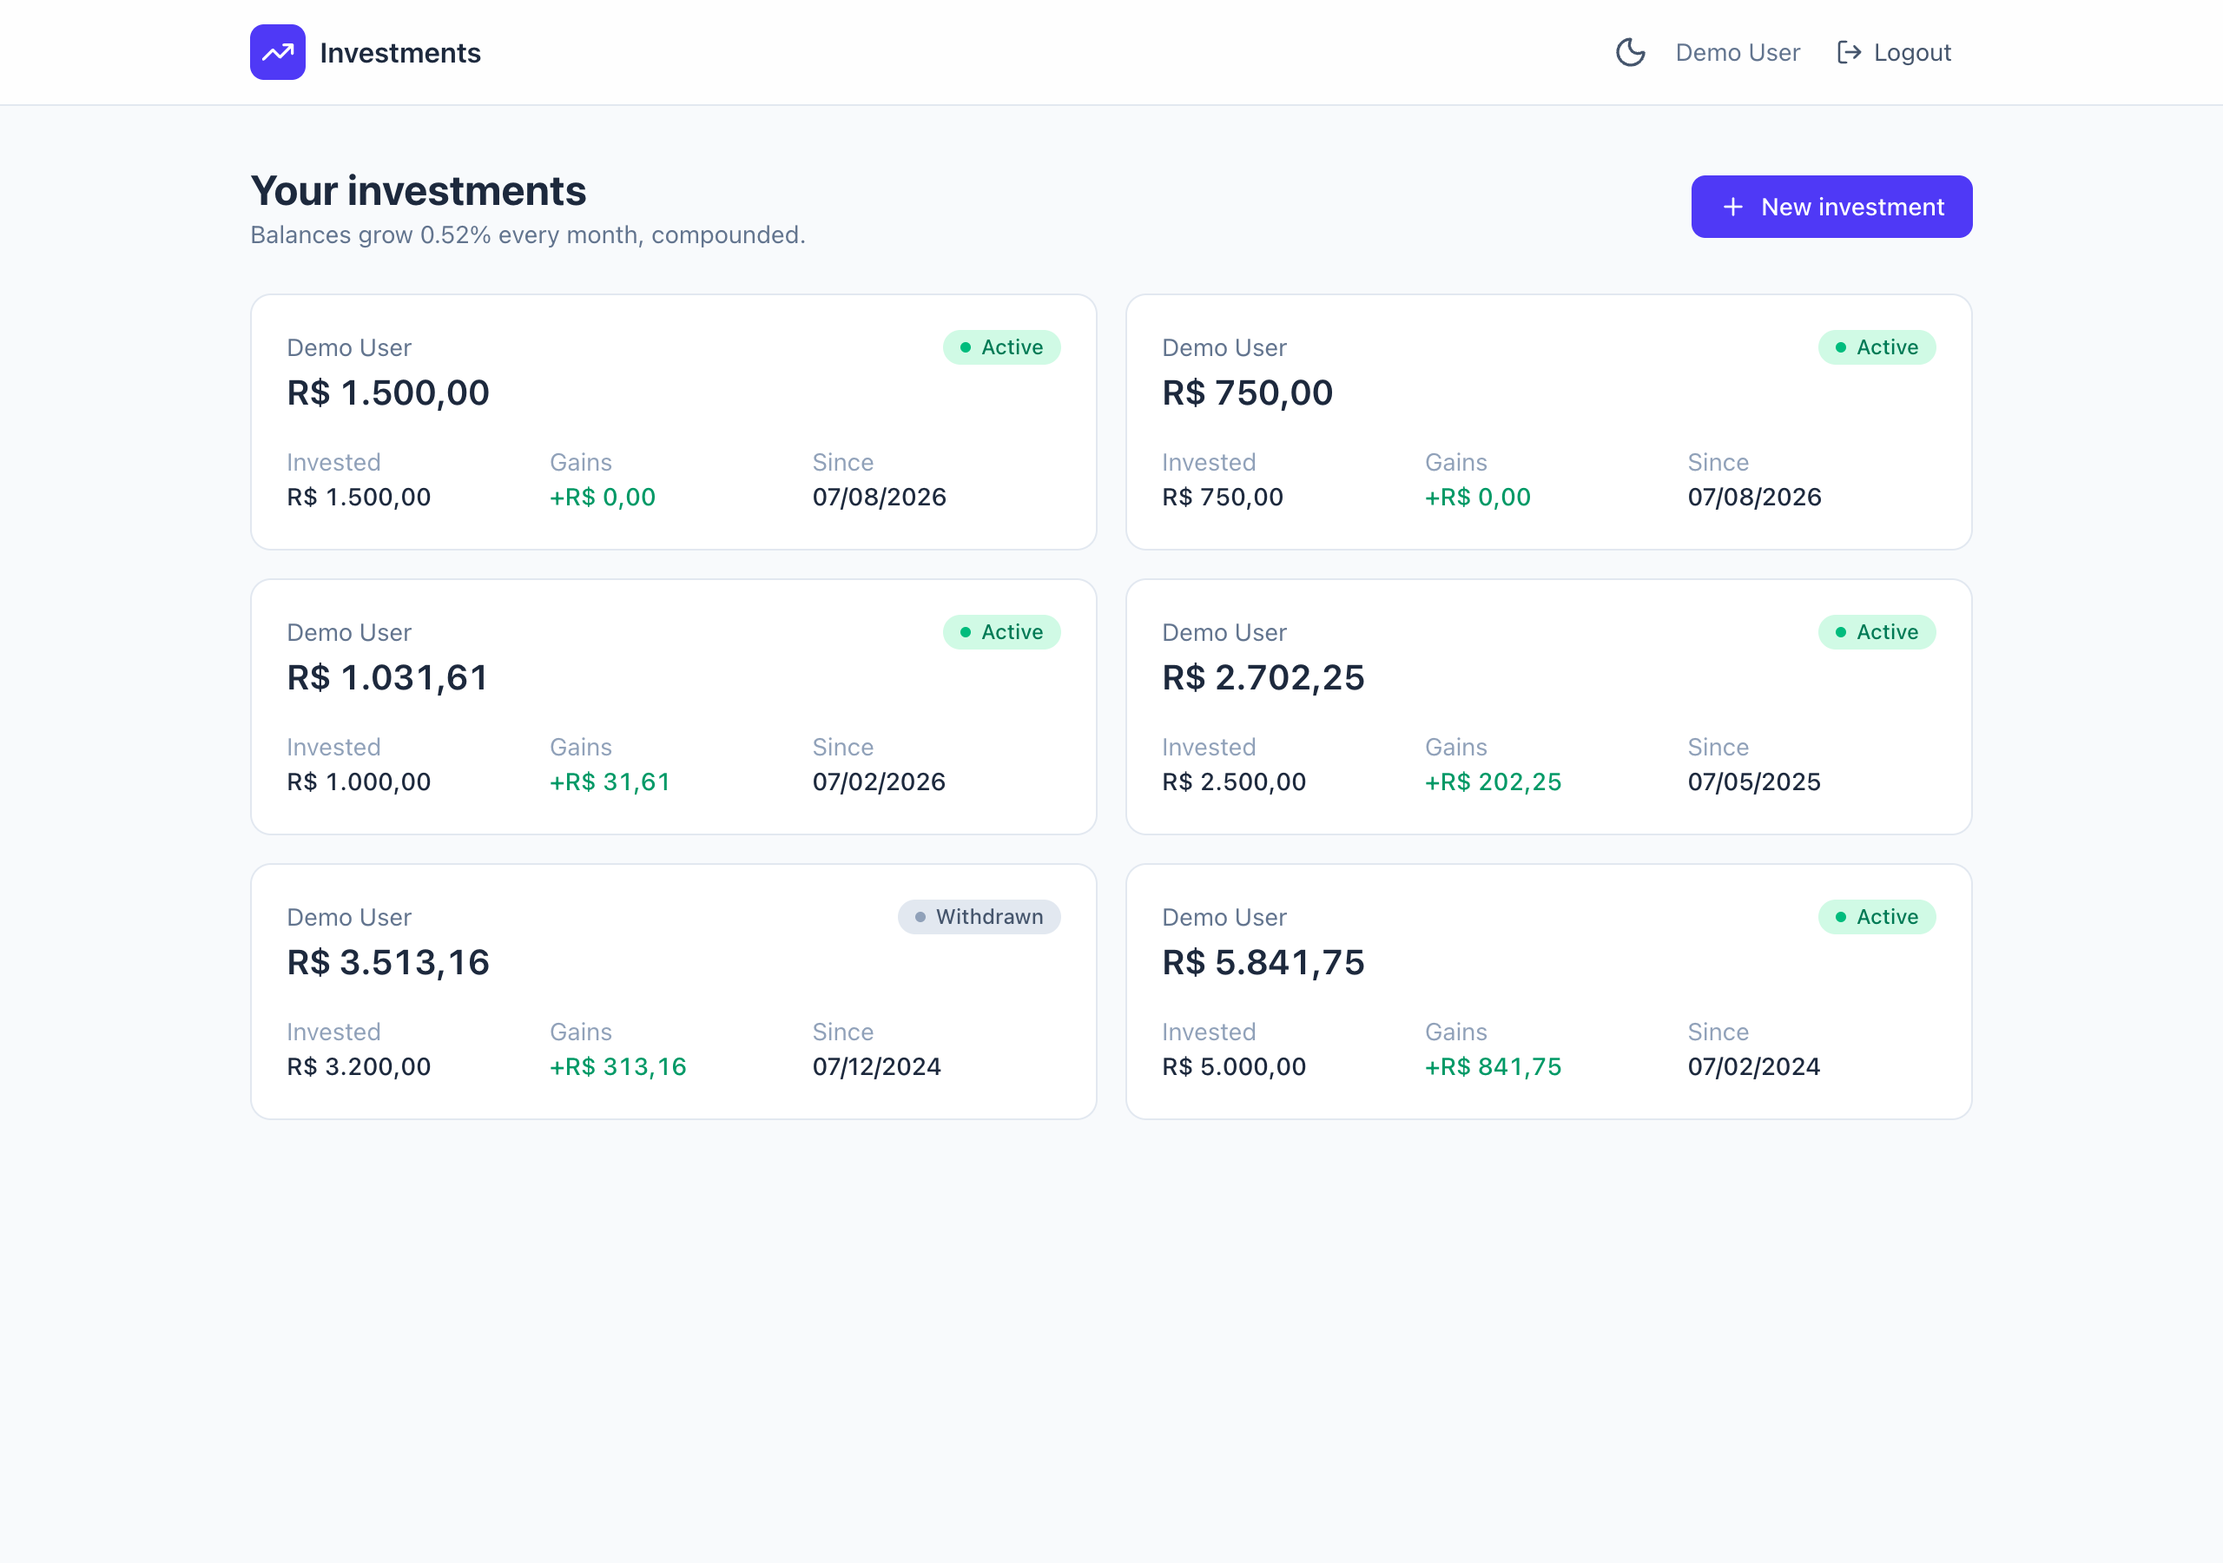
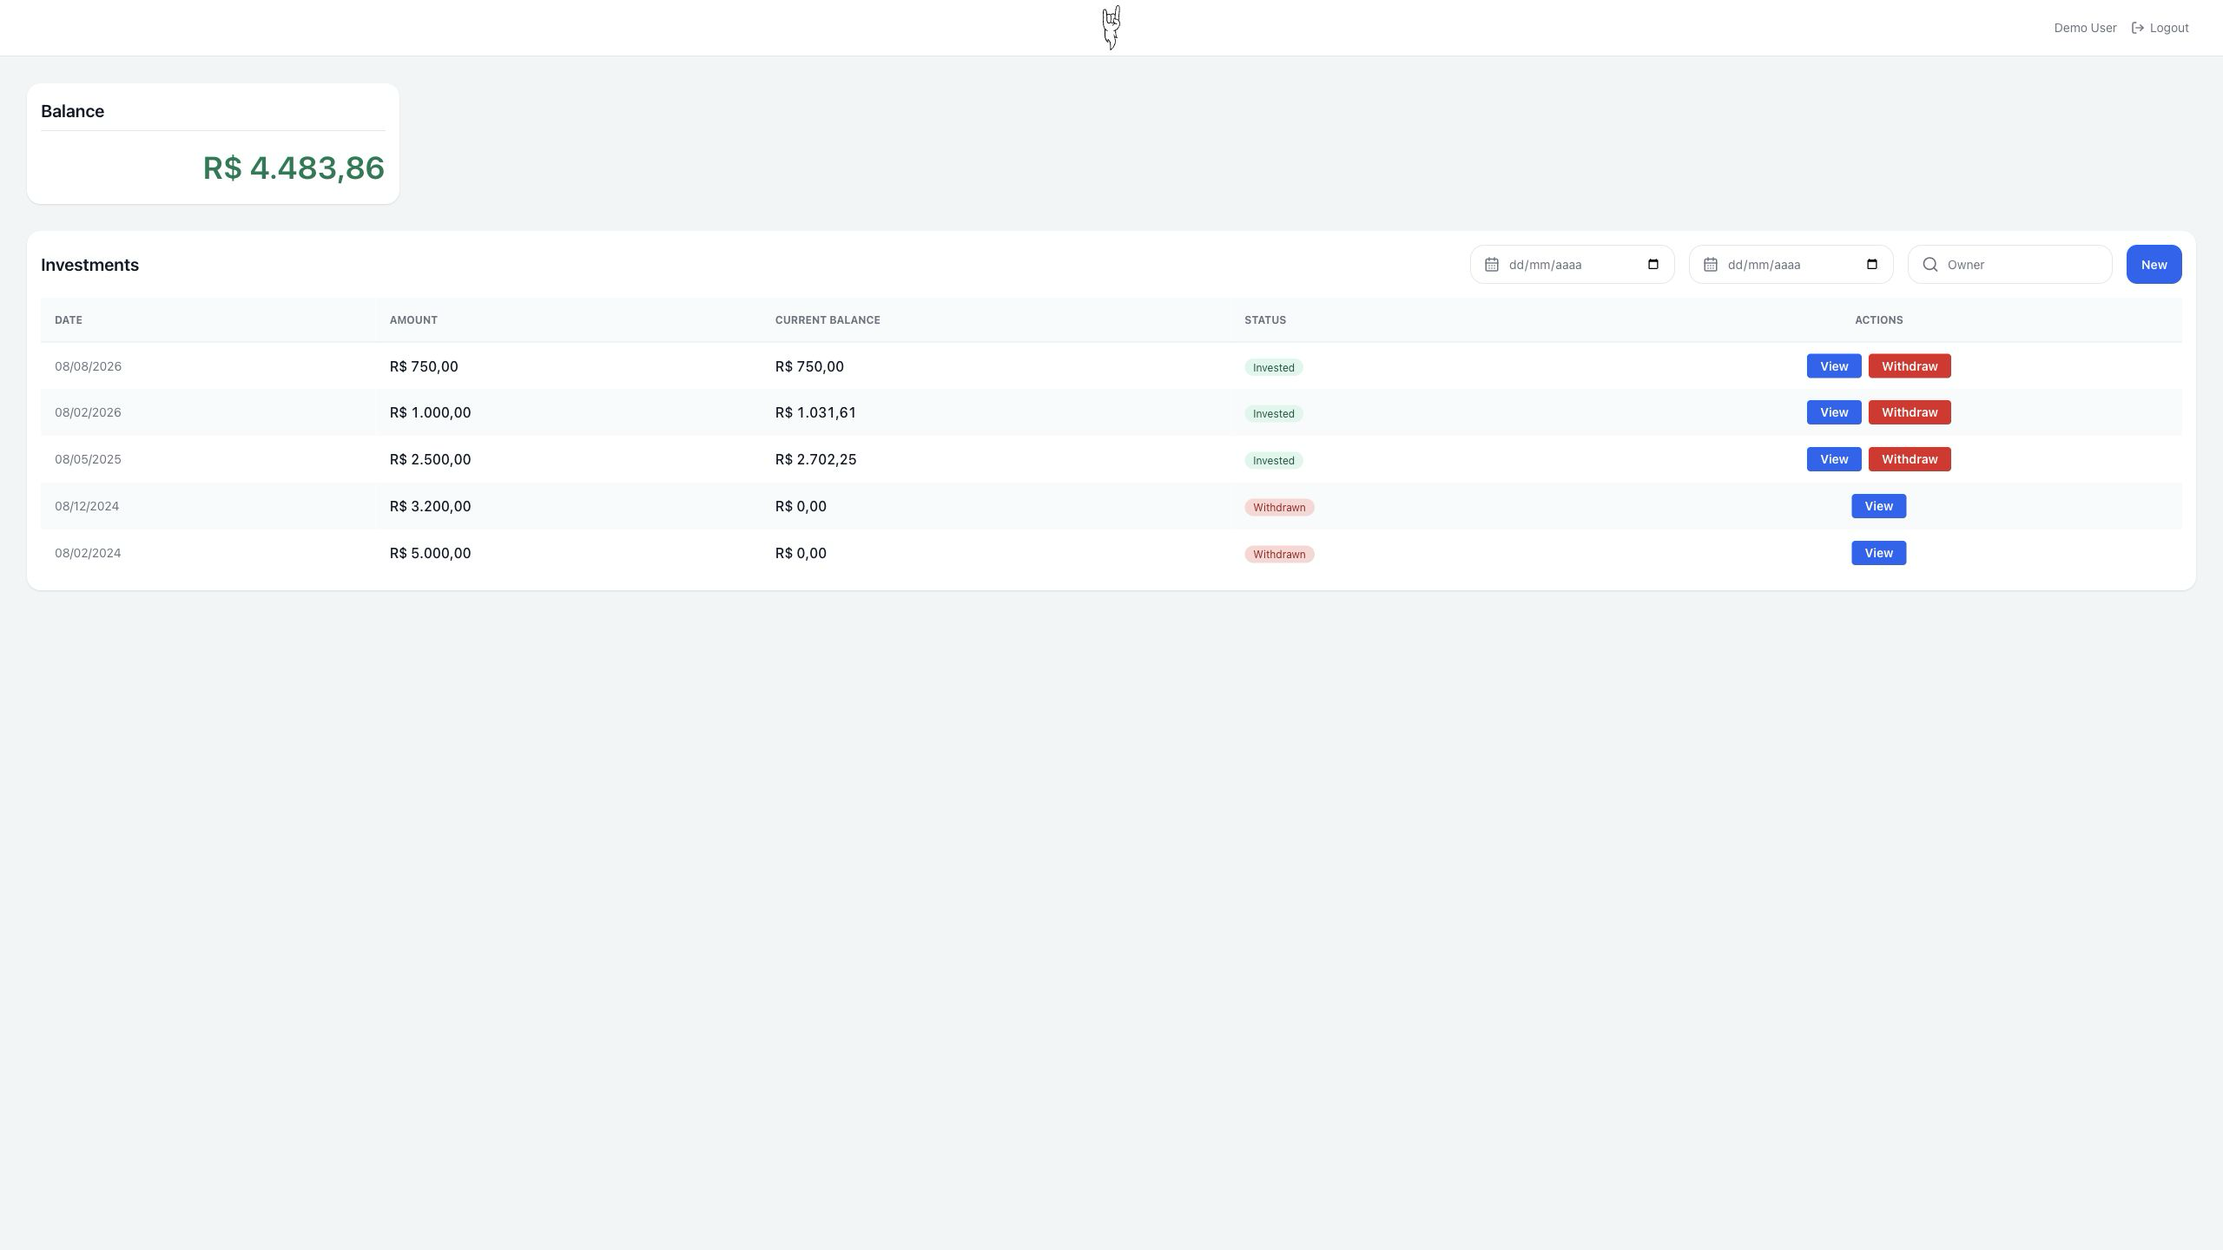
docs: refresh delivery documentation and screenshots

diff --git a/README.md b/README.md
@@ -15,19 +15,18 @@ only for the notification e-mail templates.
 
 ## Screenshots
 
-| Dashboard (light) | Withdrawal preview |
-|---|---|
+| Dashboard                                  | Withdrawal preview                              |
+| ------------------------------------------ | ----------------------------------------------- |
 | ![Dashboard](screenshots/01-dashboard.png) | ![Withdraw](screenshots/03-withdraw-dialog.png) |
 
-| Investment detail | Dashboard (dark) |
-|---|---|
-| ![Detail](screenshots/02-investment-detail.png) | ![Dark](screenshots/04-dark-mode.png) |
-
-More in [`screenshots/`](screenshots/) — including the API docs and a caught e-mail.
+| Investment detail                               |
+| ----------------------------------------------- |
+| ![Detail](screenshots/02-investment-detail.png) |
 
 ## Features
 
 **Backend (API)**
+
 - Create an investment (owner, creation date — today or past, positive amount).
 - View an investment with its initial amount and **expected balance** (principal + gains); withdrawn investments show the balance frozen at the withdrawal date.
 - **Withdraw** an investment in full, with taxes applied to the gain portion; a `withdrawal-preview` endpoint returns the taxed net for any date without committing.
@@ -36,11 +35,13 @@ More in [`screenshots/`](screenshots/) — including the API docs and a caught e
 - Queued **notification e-mails** on creation and withdrawal (Blade templates, caught by Mailpit in dev).
 
 **Frontend (UI)**
+
 - Investment list with owner, date, amount, current balance and status, with pagination.
 - Investment detail with gains and final balance.
 - Create-investment form with client + server validation.
 - Withdrawal action with a **live taxed-net preview** as you pick the date.
-- Responsive layout, dark mode, skeletons, empty/error states, toasts and route transitions.
+- Responsive layout based on the supplied Figma design, with desktop tables,
+  mobile cards, skeletons, empty/error states, toasts and route transitions.
 
 ## Business rules
 
@@ -91,12 +92,12 @@ make up
 `make up` builds the images, starts everything, then migrates and seeds demo data —
 in a single command. Then open:
 
-| Service | URL |
-|---|---|
-| API | http://localhost:8080 |
+| Service                    | URL                            |
+| -------------------------- | ------------------------------ |
+| API                        | http://localhost:8080          |
 | API docs (Swagger/OpenAPI) | http://localhost:8080/docs/api |
-| SPA | http://localhost:5173 |
-| Mailpit (caught e-mails) | http://localhost:8025 |
+| SPA                        | http://localhost:5173          |
+| Mailpit (caught e-mails)   | http://localhost:8025          |
 
 **Demo login:** `demo@coderockr.test` / `password` (pre-filled on the login screen).
 
@@ -116,11 +117,11 @@ in a single command. Then open:
 
 Three independent `.env` scopes keep the apps decoupled:
 
-| File | Purpose | Key values |
-|---|---|---|
-| `.env` (root) | Values Docker Compose interpolates | `DB_*`, `API_HTTP_PORT`, `WEB_HTTP_PORT` |
-| `api/.env` | Laravel | `DB_HOST=postgres`, `FRONTEND_URL`, `MAIL_HOST=mailpit`, `QUEUE_CONNECTION=database` |
-| `web/.env` | Vite (client) | `VITE_API_URL` |
+| File          | Purpose                            | Key values                                                                           |
+| ------------- | ---------------------------------- | ------------------------------------------------------------------------------------ |
+| `.env` (root) | Values Docker Compose interpolates | `DB_*`, `API_HTTP_PORT`, `WEB_HTTP_PORT`                                             |
+| `api/.env`    | Laravel                            | `DB_HOST=postgres`, `FRONTEND_URL`, `MAIL_HOST=mailpit`, `QUEUE_CONNECTION=database` |
+| `web/.env`    | Vite (client)                      | `VITE_API_URL`                                                                       |
 
 **CORS** is configured in `api/config/cors.php` to allow only `FRONTEND_URL`. Auth uses Sanctum **token** mode (origin-agnostic, no shared cookie), which is why the two apps can be deployed to different hosts.
 
@@ -142,43 +143,43 @@ make lint    # Pint + PHPStan/Larastan + ESLint + vue-tsc
 
 ### Endpoints
 
-| Method | Path | Description |
-|---|---|---|
-| POST | `/api/register` · `/api/login` | Auth → returns `{ user, token }` |
-| POST | `/api/logout` · GET `/api/user` | Session (Bearer) |
-| GET | `/api/investments` | Paginated list (own investments) |
-| POST | `/api/investments` | Create |
-| GET | `/api/investments/{id}` | View with balance + gains |
-| GET | `/api/investments/{id}/withdrawal-preview?date=` | Taxed-net preview |
-| POST | `/api/investments/{id}/withdraw` | Withdraw (full) |
+| Method | Path                                             | Description                      |
+| ------ | ------------------------------------------------ | -------------------------------- |
+| POST   | `/api/register` · `/api/login`                   | Auth → returns `{ user, token }` |
+| POST   | `/api/logout` · GET `/api/user`                  | Session (Bearer)                 |
+| GET    | `/api/investments`                               | Paginated list (own investments) |
+| POST   | `/api/investments`                               | Create                           |
+| GET    | `/api/investments/{id}`                          | View with balance + gains        |
+| GET    | `/api/investments/{id}/withdrawal-preview?date=` | Taxed-net preview                |
+| POST   | `/api/investments/{id}/withdraw`                 | Withdraw (full)                  |
 
 ## Third-party libraries
 
 ### Backend (`api/`)
 
-| Library | Why / how |
-|---|---|
-| `laravel/framework` 13 | API foundation: routing, Eloquent, validation, queue, mail. |
-| `laravel/sanctum` | Bearer-token auth for the decoupled SPA. |
-| `brick/money` (+ `ext-bcmath`) | Exact money as integer cents; deterministic compound/tax math (no float drift). |
-| `dedoc/scramble` | Zero-annotation OpenAPI docs (`/docs/api`) + exported spec. |
-| `pestphp/pest` | Expressive TDD; datasets drive the financial test vectors. |
-| `larastan/larastan` + `phpstan` | Static analysis (`make lint`). |
-| `laravel/pint` | PSR-12 code style. |
+| Library                         | Why / how                                                                       |
+| ------------------------------- | ------------------------------------------------------------------------------- |
+| `laravel/framework` 13          | API foundation: routing, Eloquent, validation, queue, mail.                     |
+| `laravel/sanctum`               | Bearer-token auth for the decoupled SPA.                                        |
+| `brick/money` (+ `ext-bcmath`)  | Exact money as integer cents; deterministic compound/tax math (no float drift). |
+| `dedoc/scramble`                | Zero-annotation OpenAPI docs (`/docs/api`) + exported spec.                     |
+| `pestphp/pest`                  | Expressive TDD; datasets drive the financial test vectors.                      |
+| `larastan/larastan` + `phpstan` | Static analysis (`make lint`).                                                  |
+| `laravel/pint`                  | PSR-12 code style.                                                              |
 
 ### Frontend (`web/`)
 
-| Library | Why / how |
-|---|---|
-| `vue` 3 + `vite` + `typescript` | SPA with `<script setup>` + typed SFCs. |
-| `vue-router` | Routing with auth guards; page in the URL for shareable pagination. |
-| `pinia` | Client/session state only (token, theme). |
-| `@tanstack/vue-query` | Server state: caching, `keepPreviousData` pagination, cache invalidation on mutations. |
-| `tailwindcss` v4 | Utility-first styling + handmade components (light/dark). |
-| `dayjs` | Date validation/formatting. |
-| `@vueuse/core` | `refDebounced` (withdrawal preview), `usePreferredDark`-style theming helpers. |
-| `lucide-vue-next` · `vue-sonner` | Icons · toasts. |
-| `eslint` · `prettier` · `vitest` | Lint · format · unit tests. |
+| Library                          | Why / how                                                                              |
+| -------------------------------- | -------------------------------------------------------------------------------------- |
+| `vue` 3 + `vite` + `typescript`  | SPA with `<script setup>` + typed SFCs.                                                |
+| `vue-router`                     | Routing with auth guards; page in the URL for shareable pagination.                    |
+| `pinia`                          | Client/session state for the authenticated user and token.                             |
+| `@tanstack/vue-query`            | Server state: caching, `keepPreviousData` pagination, cache invalidation on mutations. |
+| `tailwindcss` v4                 | Utility-first styling and custom components based on the supplied Figma design.        |
+| `dayjs`                          | Date validation/formatting.                                                            |
+| `@vueuse/core`                   | Debounced withdrawal preview and keyboard interaction helpers.                         |
+| `lucide-vue-next` · `vue-sonner` | Icons · toasts.                                                                        |
+| `eslint` · `prettier` · `vitest` | Lint · format · unit tests.                                                            |
 
 A native `fetch` wrapper is used instead of axios to keep the dependency list lean.
 

diff --git a/api/README.md b/api/README.md
@@ -1,58 +1,32 @@
-<p align="center"><a href="https://laravel.com" target="_blank"><img src="https://raw.githubusercontent.com/laravel/art/master/logo-lockup/5%20SVG/2%20CMYK/1%20Full%20Color/laravel-logolockup-cmyk-red.svg" width="400" alt="Laravel Logo"></a></p>
+# Investment Manager API
 
-<p align="center">
-<a href="https://github.com/laravel/framework/actions"><img src="https://github.com/laravel/framework/workflows/tests/badge.svg" alt="Build Status"></a>
-<a href="https://packagist.org/packages/laravel/framework"><img src="https://img.shields.io/packagist/dt/laravel/framework" alt="Total Downloads"></a>
-<a href="https://packagist.org/packages/laravel/framework"><img src="https://img.shields.io/packagist/v/laravel/framework" alt="Latest Stable Version"></a>
-<a href="https://packagist.org/packages/laravel/framework"><img src="https://img.shields.io/packagist/l/laravel/framework" alt="License"></a>
-</p>
+Laravel JSON API for the Coderockr Fullstack Test. It handles authentication,
+investment creation and listing, compound-interest calculations, withdrawal
+taxation, queued notification e-mails and OpenAPI documentation.
 
-## About Laravel
+## Local development
 
-Laravel is a web application framework with expressive, elegant syntax. We believe development must be an enjoyable and creative experience to be truly fulfilling. Laravel takes the pain out of development by easing common tasks used in many web projects, such as:
-
-- [Simple, fast routing engine](https://laravel.com/docs/routing).
-- [Powerful dependency injection container](https://laravel.com/docs/container).
-- Multiple back-ends for [session](https://laravel.com/docs/session) and [cache](https://laravel.com/docs/cache) storage.
-- Expressive, intuitive [database ORM](https://laravel.com/docs/eloquent).
-- Database agnostic [schema migrations](https://laravel.com/docs/migrations).
-- [Robust background job processing](https://laravel.com/docs/queues).
-- [Real-time event broadcasting](https://laravel.com/docs/broadcasting).
-
-Laravel is accessible, powerful, and provides tools required for large, robust applications.
-
-## Learning Laravel
-
-Laravel has the most extensive and thorough [documentation](https://laravel.com/docs) and video tutorial library of all modern web application frameworks, making it a breeze to get started with the framework.
-
-In addition, [Laracasts](https://laracasts.com) contains thousands of video tutorials on a range of topics including Laravel, modern PHP, unit testing, and JavaScript. Boost your skills by digging into our comprehensive video library.
-
-You can also watch bite-sized lessons with real-world projects on [Laravel Learn](https://laravel.com/learn), where you will be guided through building a Laravel application from scratch while learning PHP fundamentals.
-
-## Agentic Development
-
-Laravel's predictable structure and conventions make it ideal for AI coding agents like Claude Code, Cursor, and GitHub Copilot. Install [Laravel Boost](https://laravel.com/docs/ai) to supercharge your AI workflow:
+The API is intended to run through the Docker Compose setup in the repository
+root:
 
 ```bash
-composer require laravel/boost --dev
-
-php artisan boost:install
+make up
 ```
 
-Boost provides your agent 15+ tools and skills that help agents build Laravel applications while following best practices.
+Once running:
 
-## Contributing
+- API: <http://localhost:8080/api>
+- Interactive documentation: <http://localhost:8080/docs/api>
+- OpenAPI document: <http://localhost:8080/docs/api.json>
 
-Thank you for considering contributing to the Laravel framework! The contribution guide can be found in the [Laravel documentation](https://laravel.com/docs/contributions).
+## Quality checks
 
-## Code of Conduct
+From the repository root:
 
-In order to ensure that the Laravel community is welcoming to all, please review and abide by the [Code of Conduct](https://laravel.com/docs/contributions#code-of-conduct).
+```bash
+make test
+make lint
+```
 
-## Security Vulnerabilities
-
-If you discover a security vulnerability within Laravel, please send an e-mail to Taylor Otwell via [taylor@laravel.com](mailto:taylor@laravel.com). All security vulnerabilities will be promptly addressed.
-
-## License
-
-The Laravel framework is open-sourced software licensed under the [MIT license](https://opensource.org/licenses/MIT).
+For architecture, business rules, configuration and complete setup
+instructions, see the [main project README](../README.md).

diff --git a/web/README.md b/web/README.md
@@ -1,5 +1,36 @@
-# Vue 3 + TypeScript + Vite
+# Investment Manager Web
 
-This template should help get you started developing with Vue 3 and TypeScript in Vite. The template uses Vue 3 `<script setup>` SFCs, check out the [script setup docs](https://v3.vuejs.org/api/sfc-script-setup.html#sfc-script-setup) to learn more.
+Vue 3 single-page application for managing investments through the decoupled
+Laravel API. The interface follows the supplied Figma design and includes
+responsive investment listing, creation, detail and withdrawal flows.
 
-Learn more about the recommended Project Setup and IDE Support in the [Vue Docs TypeScript Guide](https://vuejs.org/guide/typescript/overview.html#project-setup).
+## Local development
+
+The recommended setup runs the complete project through Docker Compose from the
+repository root:
+
+```bash
+make up
+```
+
+The application will be available at <http://localhost:5173>.
+
+To run only the frontend locally:
+
+```bash
+npm ci
+cp .env.example .env
+npm run dev
+```
+
+## Quality checks
+
+```bash
+npm run type-check
+npm run lint
+npm run test -- --run
+npm run build
+```
+
+For the complete setup and architecture documentation, see the
+[main project README](../README.md).
